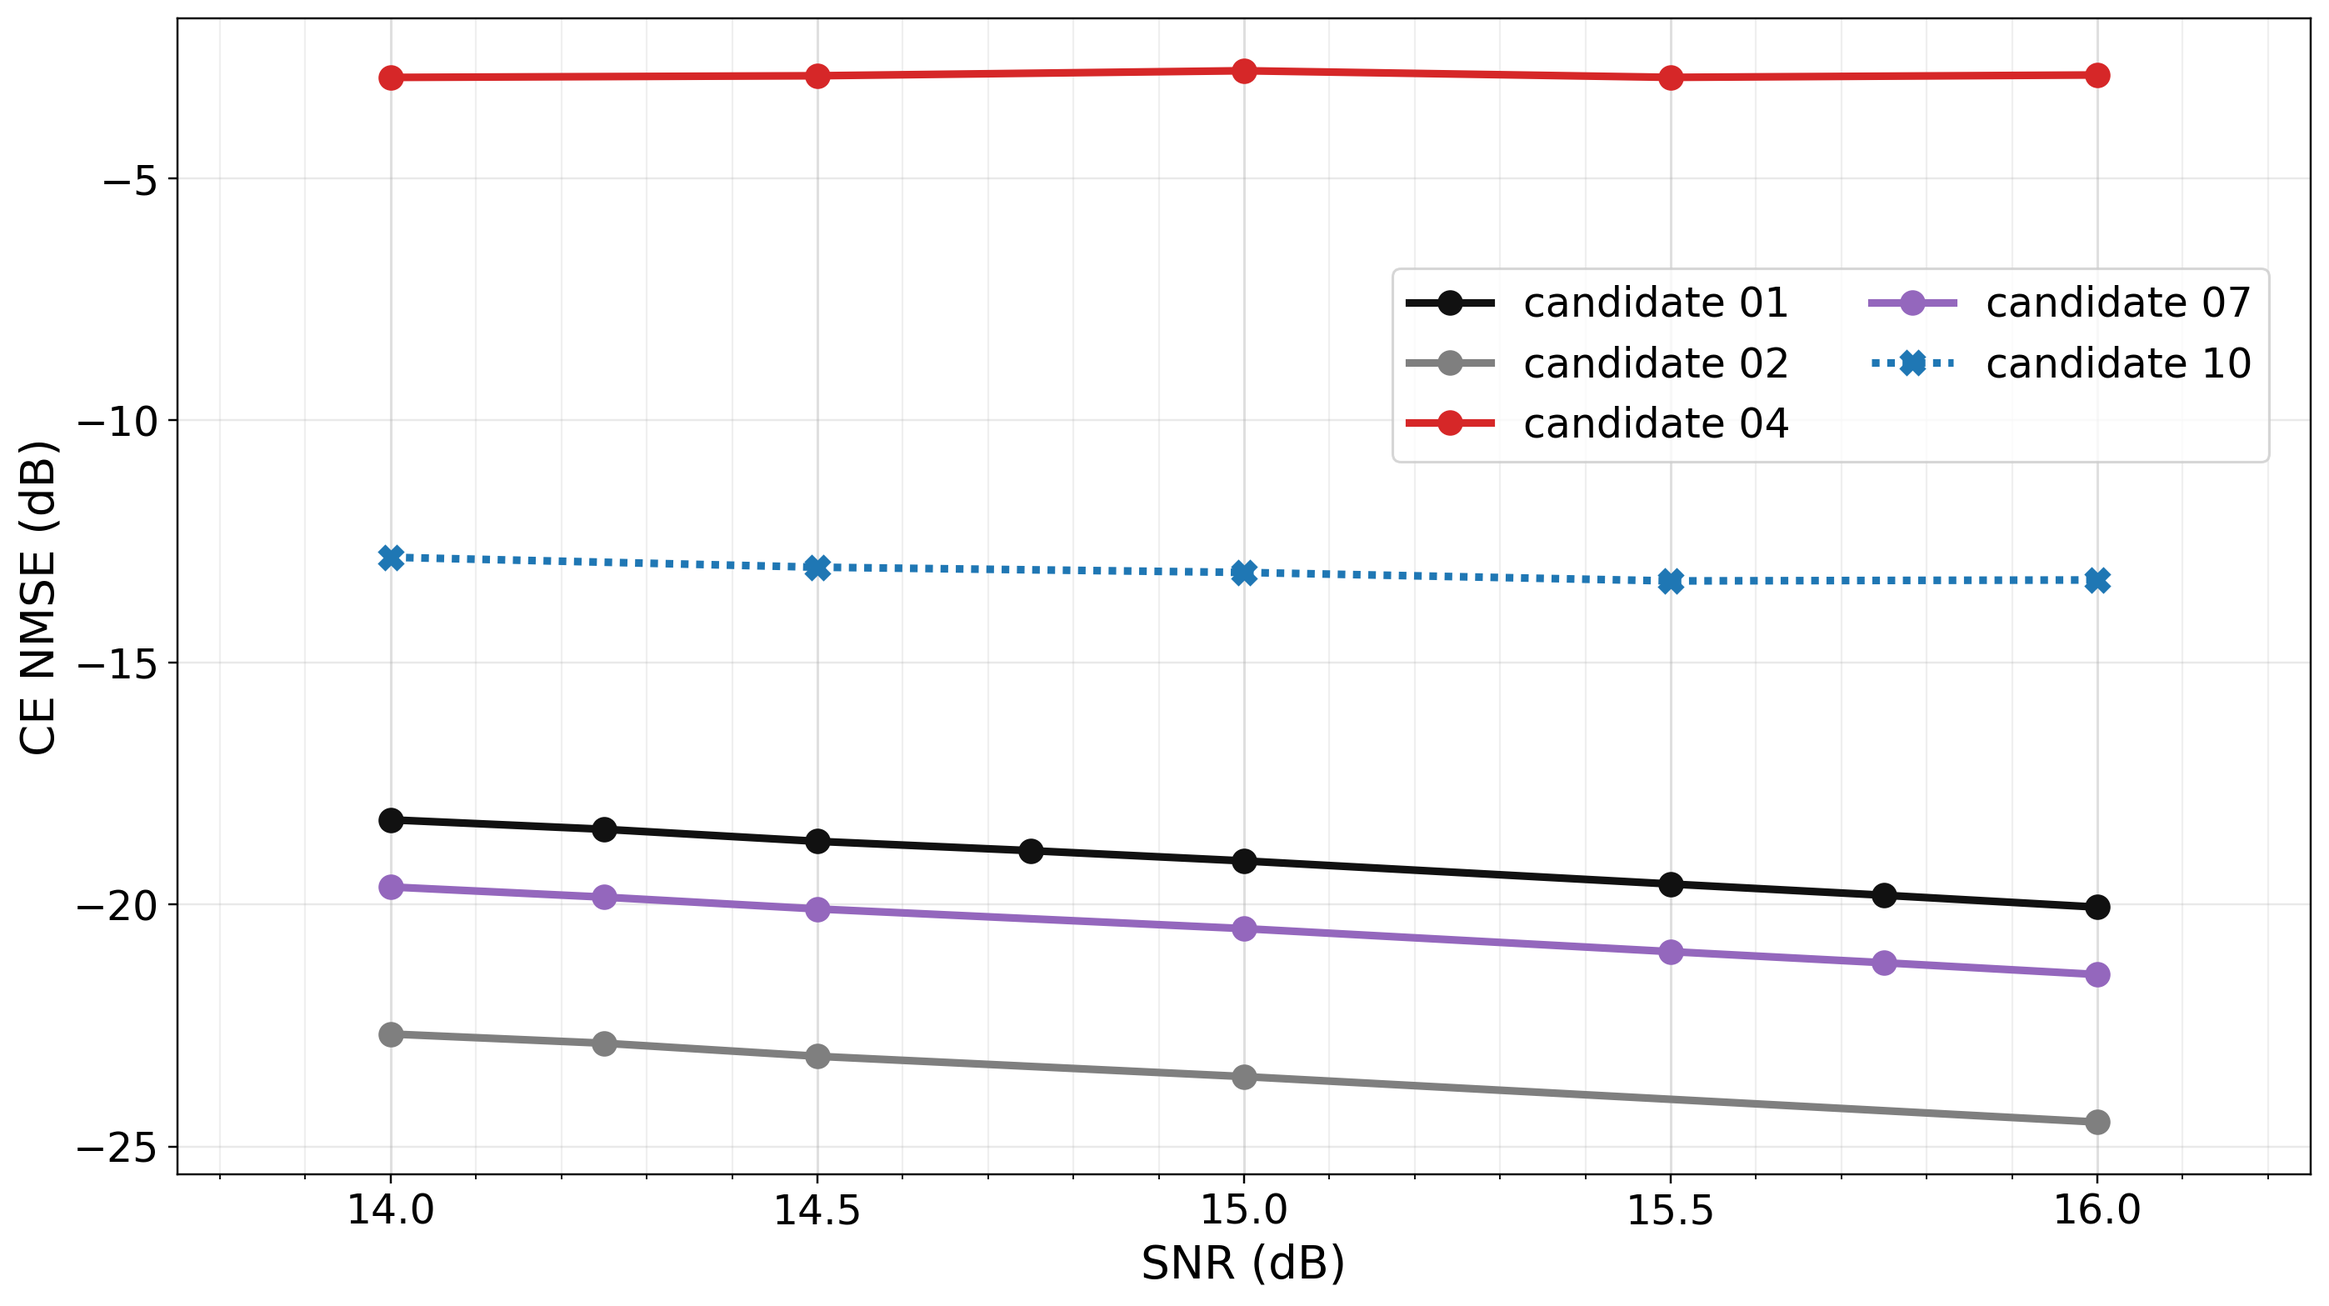
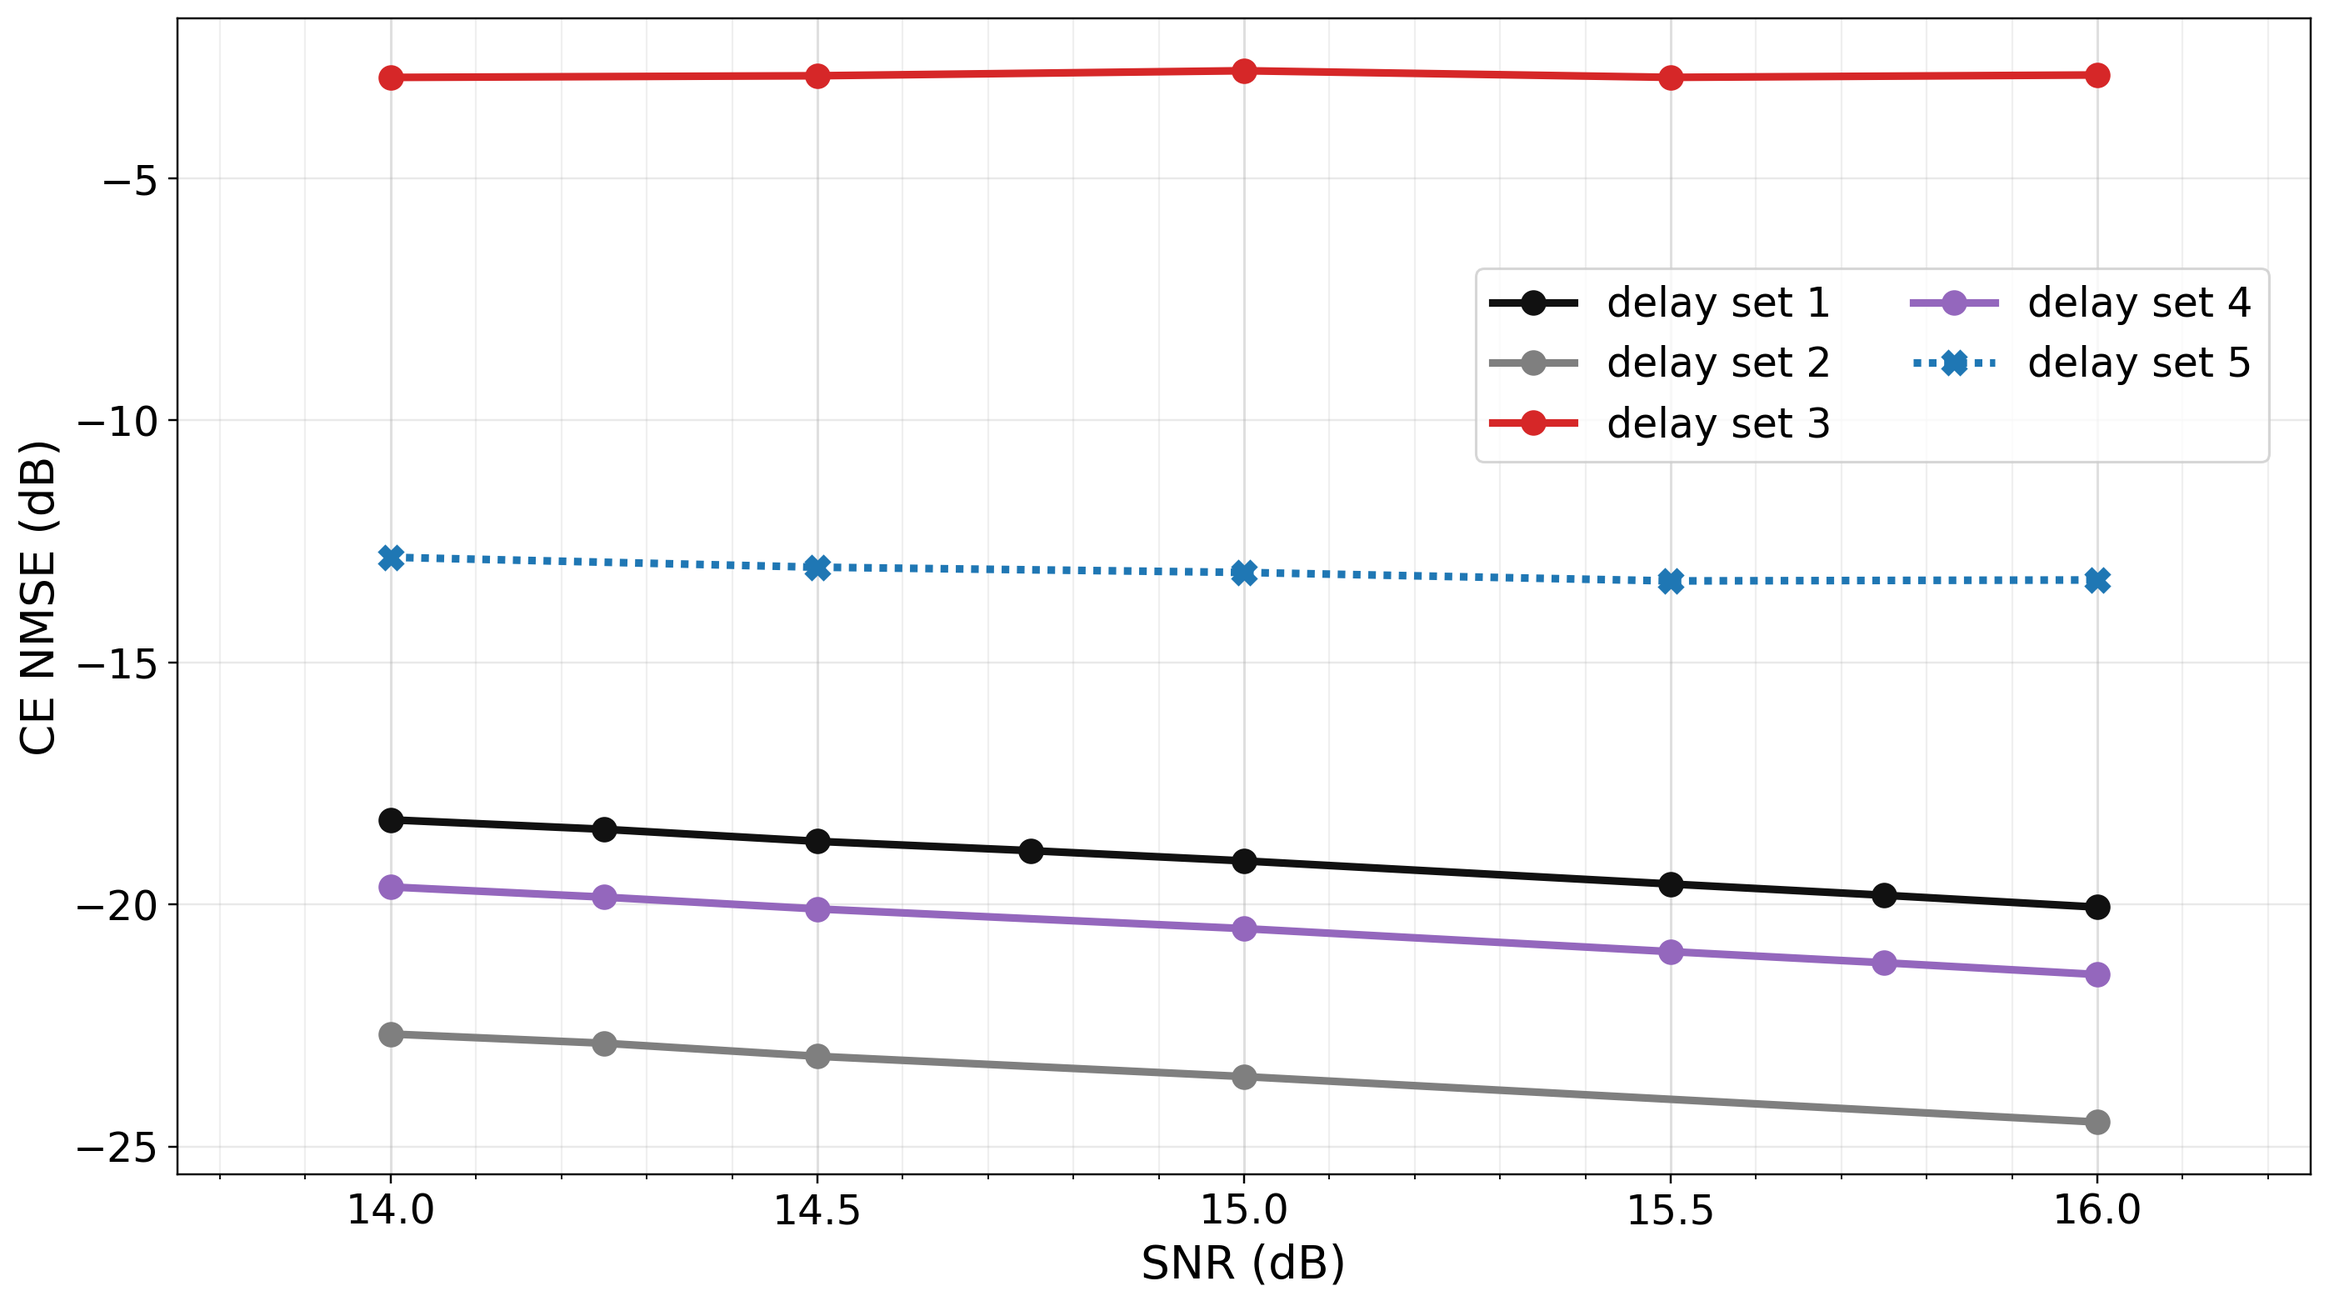
docs(result-028): 修改画图

Changed region(s): [[0.5914, 0.2144, 0.9649, 0.3369]]

diff --git a/tools/plot_result028_a100_subset.py b/tools/plot_result028_a100_subset.py
@@ -33,11 +33,11 @@ FIGURES = ROOT / "docs/figures/result-028"
 MANIFEST = ROOT / "outputs/experiment028_csi_curves/20260803_main/a100_comb6/manifest/source_manifest.json"
 
 SELECTED = (
-    ("candidate 01", "A100_B0_QC"),
-    ("candidate 02", "A100_AP_RMS_T1"),
-    ("candidate 04", "A100_AP_TU_NT"),
-    ("candidate 07", "A100_S0_SIDON"),
-    ("candidate 10", "A100_MEFF_T2_06"),
+    ("delay set 1", "A100_B0_QC"),
+    ("delay set 2", "A100_AP_RMS_T1"),
+    ("delay set 3", "A100_AP_TU_NT"),
+    ("delay set 4", "A100_S0_SIDON"),
+    ("delay set 5", "A100_MEFF_T2_06"),
 )
 SNR_MAX_DB = 16.0
 X_MIN_DB = 13.75

diff --git a/research/result-028.md b/research/result-028.md
@@ -121,9 +121,9 @@ A300 estimated/ideal 分别追加 22,800/108,100 candidate-trials；ideal 图使
 
 每个场景使用一个 `curve_styles.json`，同一物理方案跨 CSI 类型、缩写/编号图例和散点保持相同 color/linestyle/marker。标题、轴标签、图例至少 16 pt，刻度至少 14 pt，线宽至少 2.5 pt，marker 至少 8 pt；16 张图均按约 13 cm PPT 半页宽预览通过。零错误点的图示下界为 `0.5/trials`，CSV 保留真实值。
 
-### 3.6 A100 五 candidate、SNR 不高于 16 dB 的无标题图
+### 3.6 A100 五组 delay set、SNR 不高于 16 dB 的无标题图
 
-本节只筛选 candidate 01、02、04、07、10，不运行新 trial。三张图均不显示标题，横轴显示范围为 13.75–16.25 dB，现有数据为 14–16 dB，因此左右各保留 0.25 dB 空白；竖向主/次网格间隔分别为 0.5/0.1 dB，便于直接读取曲线间的 SNR 增益。图例自动放在坐标区内不与曲线重叠的空白位置。同一 candidate 沿用本 result 其他图中的 color、linestyle 和 marker。
+本节只筛选原 candidate 01、02、04、07、10，并按本节顺序重新编号为 `delay set 1` 至 `delay set 5`，不运行新 trial。三张图均不显示标题，横轴显示范围为 13.75–16.25 dB，现有数据为 14–16 dB，因此左右各保留 0.25 dB 空白；竖向主/次网格间隔分别为 0.5/0.1 dB，便于直接读取曲线间的 SNR 增益。图例自动放在坐标区内不与曲线重叠的空白位置。同一物理方案沿用本 result 其他图中的 color、linestyle 和 marker。
 
 `delay q` 是当前 `/K` 相位定义中的无量纲 DFT 栅格坐标 $j_n$：$V_{k,n}=\exp(-j2\pi k j_n/K)$。整数 q 是 576 点有效带宽 DFT 栅格上的整数循环移位，`1q=1/(K\Delta f)=57.87037 ns`；小数 q 表示相同相位斜率下的分数循环移位。物理 OFDM FFT 长度为 $N_{\rm FFT}=4096$，表中的 FFT sample 时延只把同一物理时延换算为采样点数，不把当前 `/K` 相位模型改成 `/N_{\rm FFT}` 模型：
 
@@ -135,11 +135,11 @@ $$
 
 | 编号 | candidate ID | delay q | delay ns | 等效 delay（FFT samples） |
 |---|---|---|---|---|
-| candidate 01 | `A100_B0_QC` | `[0,9,18,27,36,45,54,63]` | `[0,520.833,1041.667,1562.5,2083.333,2604.167,3125,3645.833]` | `[0,64,128,192,256,320,384,448]` |
-| candidate 02 | `A100_AP_RMS_T1` | `[0,1.728,3.456,5.184,6.912,8.64,10.368,12.096]` | `[0,100,200,300,400,500,600,700]` | `[0,12.288,24.576,36.864,49.152,61.44,73.728,86.016]` |
-| candidate 04 | `A100_AP_TU_NT` | `[0,72,144,216,288,360,432,504]` | `[0,4166.667,8333.333,12500,16666.667,20833.333,25000,29166.667]` | `[0,512,1024,1536,2048,2560,3072,3584]` |
-| candidate 07 | `A100_S0_SIDON` | `[0,1,3,7,12,20,30,65]` | `[0,57.87,173.611,405.093,694.444,1157.407,1736.111,3761.574]` | `[0,7.111,21.333,49.778,85.333,142.222,213.333,462.222]` |
-| candidate 10 | `A100_MEFF_T2_06` | `[0,32,157,257,298,334,406,518]` | `[0,1851.852,9085.648,14872.685,17245.37,19328.704,23495.37,29976.852]` | `[0,227.556,1116.444,1827.556,2119.111,2375.111,2887.111,3683.556]` |
+| delay set 1 | `A100_B0_QC` | `[0,9,18,27,36,45,54,63]` | `[0,520.833,1041.667,1562.5,2083.333,2604.167,3125,3645.833]` | `[0,64,128,192,256,320,384,448]` |
+| delay set 2 | `A100_AP_RMS_T1` | `[0,1.728,3.456,5.184,6.912,8.64,10.368,12.096]` | `[0,100,200,300,400,500,600,700]` | `[0,12.288,24.576,36.864,49.152,61.44,73.728,86.016]` |
+| delay set 3 | `A100_AP_TU_NT` | `[0,72,144,216,288,360,432,504]` | `[0,4166.667,8333.333,12500,16666.667,20833.333,25000,29166.667]` | `[0,512,1024,1536,2048,2560,3072,3584]` |
+| delay set 4 | `A100_S0_SIDON` | `[0,1,3,7,12,20,30,65]` | `[0,57.87,173.611,405.093,694.444,1157.407,1736.111,3761.574]` | `[0,7.111,21.333,49.778,85.333,142.222,213.333,462.222]` |
+| delay set 5 | `A100_MEFF_T2_06` | `[0,32,157,257,298,334,406,518]` | `[0,1851.852,9085.648,14872.685,17245.37,19328.704,23495.37,29976.852]` | `[0,227.556,1116.444,1827.556,2119.111,2375.111,2887.111,3683.556]` |
 
 ![A100 five-candidate estimated CSI BLER, SNR no greater than 16 dB](../docs/figures/result-028/a100_comb6_subset_estimated_csi_bler_snr_le_16.png)
 
@@ -147,11 +147,11 @@ $$
 
 ![A100 five-candidate CE NMSE, SNR no greater than 16 dB](../docs/figures/result-028/a100_comb6_subset_ce_nmse_snr_le_16.png)
 
-ideal 图遵循 3.2 的 `plot_included` 统计截断，而不是把所有低样本尾点都连线。原始 CSV 中 candidate 10 在 15.5/16 dB 各有 400 trials、0 错误；旧子集图为对数显示将两点都替换为 `0.5/400=1.25e-3`，形成了非物理平台。candidate 07 在 15.75/16 dB 各为 3000 trials、2 错误，两个经验 BLER 都是 `6.67e-4`，也形成水平线。它们并非“没有数据”，而是错误数太少且已被正式作图规则排除；修订图不再绘制这些点，所以 candidate 10/07 分别止于 15/15.5 dB。
+ideal 图遵循 3.2 的 `plot_included` 统计截断，而不是把所有低样本尾点都连线。原始 CSV 中 delay set 5（原 candidate 10）在 15.5/16 dB 各有 400 trials、0 错误；旧子集图为对数显示将两点都替换为 `0.5/400=1.25e-3`，形成了非物理平台。delay set 4（原 candidate 07）在 15.75/16 dB 各为 3000 trials、2 错误，两个经验 BLER 都是 `6.67e-4`，也形成水平线。它们并非“没有数据”，而是错误数太少且已被正式作图规则排除；修订图不再绘制这些点，所以 delay set 5/4 分别止于 15/15.5 dB。
 
-candidate 04 的高信道估计误差确实来自导频可观测性缺秩。comb-6 下 $N_p=K/6=96$，导频相位只由 $j_n\bmod96$ 决定；其 8 个折叠位置为 `[0,72,48,24,0,72,48,24]`。第 1/5、2/6、3/7、4/8 列分别完全相同，因此 $\mathbf V_P$ 只有 rank 4，数值 condition number 为 `2.254e13`。这不是普通噪声造成的轻微劣化，而是 8 个发射分支只留下 4 个可区分导频方向。
+delay set 3（原 candidate 04）的高信道估计误差确实来自导频可观测性缺秩。comb-6 下 $N_p=K/6=96$，导频相位只由 $j_n\bmod96$ 决定；其 8 个折叠位置为 `[0,72,48,24,0,72,48,24]`。第 1/5、2/6、3/7、4/8 列分别完全相同，因此 $\mathbf V_P$ 只有 rank 4，数值 condition number 为 `2.254e13`。这不是普通噪声造成的轻微劣化，而是 8 个发射分支只留下 4 个可区分导频方向。
 
-实际 TDL-A 等效协方差进一步验证了该机理：以最大奇异值的 $10^{-10}$ 为数值秩门限，完整 $\mathbf R_g$ 为 rank 136，而导频协方差 $\mathbf R_{PP}$ 为 rank 68，存在 68 个 rank gap；由 $\mathbf R_{DP}\mathbf R_{PP}^{\dagger}$ 预测数据 RE 得到的无噪声 NMSE 地板为 `-2.863 dB`。16 dB 理论 matched-LMMSE NMSE 为 `-2.839 dB`，Monte Carlo 为 `-2.863 dB`，与地板一致。图中 candidate 04 的 estimated BLER 始终为 1，而 ideal BLER 已随 SNR 下降，说明当前失败点是缺秩导频下的信道估计，不是理想 CSI 链路本身。零错误 ideal 点仍按 `0.5/trials` 仅作对数图显示，真实错误数和 BLER 保留在 CSV。
+实际 TDL-A 等效协方差进一步验证了该机理：以最大奇异值的 $10^{-10}$ 为数值秩门限，完整 $\mathbf R_g$ 为 rank 136，而导频协方差 $\mathbf R_{PP}$ 为 rank 68，存在 68 个 rank gap；由 $\mathbf R_{DP}\mathbf R_{PP}^{\dagger}$ 预测数据 RE 得到的无噪声 NMSE 地板为 `-2.863 dB`。16 dB 理论 matched-LMMSE NMSE 为 `-2.839 dB`，Monte Carlo 为 `-2.863 dB`，与地板一致。图中 delay set 3 的 estimated BLER 始终为 1，而 ideal BLER 已随 SNR 下降，说明当前失败点是缺秩导频下的信道估计，不是理想 CSI 链路本身。零错误 ideal 点仍按 `0.5/trials` 仅作对数图显示，真实错误数和 BLER 保留在 CSV。
 
 复现入口为 `python tools/plot_result028_a100_subset.py`；矩阵诊断和精确换算表分别输出到 `curve_augmentation_v2/a100/final/a100_subset_matrix_diagnostics.csv` 与 `a100_subset_delay_table.csv`。
 

diff --git a/research/result-028-text.md b/research/result-028-text.md
@@ -138,9 +138,9 @@ A100 二次追加后，candidate 02 ideal 的重点尾点为：
 
 验收状态：plan-028 要求的 A30/A100 三张 candidate 图、A300 三张缩写图、三张 candidate 图、prescan/正式 estimated 图及两个 outage–CE–BLER 散点均已生成；A100 三张 candidate 图已再次替换为二次增量合并版本。真实 ideal 接收机、绝对 trial 续跑、区间连续性、candidate 级预算覆盖、动态 A300 时延、manifest hash、编号双射和样式下限均通过测试或运行时校验。
 
-### 3.6 A100 五 candidate、SNR 不高于 16 dB 的无标题图
+### 3.6 A100 五组 delay set、SNR 不高于 16 dB 的无标题图
 
-本节基于合并后的现有 CSV，只保留 candidate 01、02、04、07、10，不运行新 trial。三张交付图分别为 estimated-CSI BLER、ideal-CSI BLER 和 CE NMSE；均无标题，横轴显示范围为 13.75–16.25 dB，现有数据为 14–16 dB，左右各保留 0.25 dB 空白。竖向主网格为 0.5 dB、次网格为 0.1 dB，图例自动置于坐标区内不与曲线重叠的空白位置。同一 candidate 的 color、linestyle 和 marker 与 result-028 其他图一致。图路径为：
+本节基于合并后的现有 CSV，只保留原 candidate 01、02、04、07、10，并按本节顺序重新编号为 `delay set 1` 至 `delay set 5`，不运行新 trial。三张交付图分别为 estimated-CSI BLER、ideal-CSI BLER 和 CE NMSE；均无标题，横轴显示范围为 13.75–16.25 dB，现有数据为 14–16 dB，左右各保留 0.25 dB 空白。竖向主网格为 0.5 dB、次网格为 0.1 dB，图例自动置于坐标区内不与曲线重叠的空白位置。同一物理方案的 color、linestyle 和 marker 与 result-028 其他图一致。图路径为：
 
 - `docs/figures/result-028/a100_comb6_subset_estimated_csi_bler_snr_le_16.png`；
 - `docs/figures/result-028/a100_comb6_subset_ideal_csi_bler_snr_le_16.png`；
@@ -156,22 +156,22 @@ $$
 
 | 编号 | candidate ID | delay q | delay ns | 等效 delay（FFT samples） |
 |---|---|---|---|---|
-| candidate 01 | `A100_B0_QC` | `[0,9,18,27,36,45,54,63]` | `[0,520.833,1041.667,1562.5,2083.333,2604.167,3125,3645.833]` | `[0,64,128,192,256,320,384,448]` |
-| candidate 02 | `A100_AP_RMS_T1` | `[0,1.728,3.456,5.184,6.912,8.64,10.368,12.096]` | `[0,100,200,300,400,500,600,700]` | `[0,12.288,24.576,36.864,49.152,61.44,73.728,86.016]` |
-| candidate 04 | `A100_AP_TU_NT` | `[0,72,144,216,288,360,432,504]` | `[0,4166.667,8333.333,12500,16666.667,20833.333,25000,29166.667]` | `[0,512,1024,1536,2048,2560,3072,3584]` |
-| candidate 07 | `A100_S0_SIDON` | `[0,1,3,7,12,20,30,65]` | `[0,57.87,173.611,405.093,694.444,1157.407,1736.111,3761.574]` | `[0,7.111,21.333,49.778,85.333,142.222,213.333,462.222]` |
-| candidate 10 | `A100_MEFF_T2_06` | `[0,32,157,257,298,334,406,518]` | `[0,1851.852,9085.648,14872.685,17245.37,19328.704,23495.37,29976.852]` | `[0,227.556,1116.444,1827.556,2119.111,2375.111,2887.111,3683.556]` |
+| delay set 1 | `A100_B0_QC` | `[0,9,18,27,36,45,54,63]` | `[0,520.833,1041.667,1562.5,2083.333,2604.167,3125,3645.833]` | `[0,64,128,192,256,320,384,448]` |
+| delay set 2 | `A100_AP_RMS_T1` | `[0,1.728,3.456,5.184,6.912,8.64,10.368,12.096]` | `[0,100,200,300,400,500,600,700]` | `[0,12.288,24.576,36.864,49.152,61.44,73.728,86.016]` |
+| delay set 3 | `A100_AP_TU_NT` | `[0,72,144,216,288,360,432,504]` | `[0,4166.667,8333.333,12500,16666.667,20833.333,25000,29166.667]` | `[0,512,1024,1536,2048,2560,3072,3584]` |
+| delay set 4 | `A100_S0_SIDON` | `[0,1,3,7,12,20,30,65]` | `[0,57.87,173.611,405.093,694.444,1157.407,1736.111,3761.574]` | `[0,7.111,21.333,49.778,85.333,142.222,213.333,462.222]` |
+| delay set 5 | `A100_MEFF_T2_06` | `[0,32,157,257,298,334,406,518]` | `[0,1851.852,9085.648,14872.685,17245.37,19328.704,23495.37,29976.852]` | `[0,227.556,1116.444,1827.556,2119.111,2375.111,2887.111,3683.556]` |
 
 ideal 图使用与 3.2 相同的 `plot_included` 统计截断。原始 CSV 中仍有以下弱统计尾点，但修订图不再绘制：
 
-- candidate 10 的 15.5/16 dB 均为 400 trials、0 错误；此前对数图以 `0.5/trials=1.25e-3` 显示两个零值，产生了人为平台；
-- candidate 07 的 15.75/16 dB 均为 3000 trials、2 错误，经验 BLER 都是 `6.67e-4`，相同有限样本计数产生水平线。
+- delay set 5（原 candidate 10）的 15.5/16 dB 均为 400 trials、0 错误；此前对数图以 `0.5/trials=1.25e-3` 显示两个零值，产生了人为平台；
+- delay set 4（原 candidate 07）的 15.75/16 dB 均为 3000 trials、2 错误，经验 BLER 都是 `6.67e-4`，相同有限样本计数产生水平线。
 
-因此不是“没有数据”，而是这些点的错误数不足，且已被正式作图规则排除；candidate 10 和 07 在修订 ideal 图中分别止于 15 和 15.5 dB。
+因此不是“没有数据”，而是这些点的错误数不足，且已被正式作图规则排除；delay set 5 和 4 在修订 ideal 图中分别止于 15 和 15.5 dB。
 
-candidate 04 的 CE NMSE 高不是待验证猜测，而是由三组一致证据支持的缺秩结果：
+delay set 3（原 candidate 04）的 CE NMSE 高不是待验证猜测，而是由三组一致证据支持的缺秩结果：
 
-1. comb-6 下 $N_p=K/6=96$，导频相位只由 $j_n\bmod96$ 决定。candidate 04 的折叠位置为 `[0,72,48,24,0,72,48,24]`；第 1/5、2/6、3/7、4/8 列分别相同，所以 $\mathbf V_P$ 从 8 列降为 rank 4，condition number 为 `2.254e13`。
+1. comb-6 下 $N_p=K/6=96$，导频相位只由 $j_n\bmod96$ 决定。delay set 3 的折叠位置为 `[0,72,48,24,0,72,48,24]`；第 1/5、2/6、3/7、4/8 列分别相同，所以 $\mathbf V_P$ 从 8 列降为 rank 4，condition number 为 `2.254e13`。
 2. 在 matched TDL-A 等效协方差上，以 $10^{-10}$ 相对奇异值为秩门限，完整 $\mathbf R_g$ 为 rank 136，导频协方差 $\mathbf R_{PP}$ 为 rank 68，rank gap 为 68。数据 RE 无噪声预测残差给出 `-2.863 dB` NMSE 地板。
 3. 16 dB 的理论 matched-LMMSE NMSE 为 `-2.839 dB`，实际 Monte Carlo 为 `-2.863 dB`；二者都贴近无噪声地板。estimated BLER 在 14–16 dB 均为 1，而 ideal BLER 已下降，故瓶颈是缺秩导频可观测性下的信道估计，而不是理想 CSI 链路。
 
